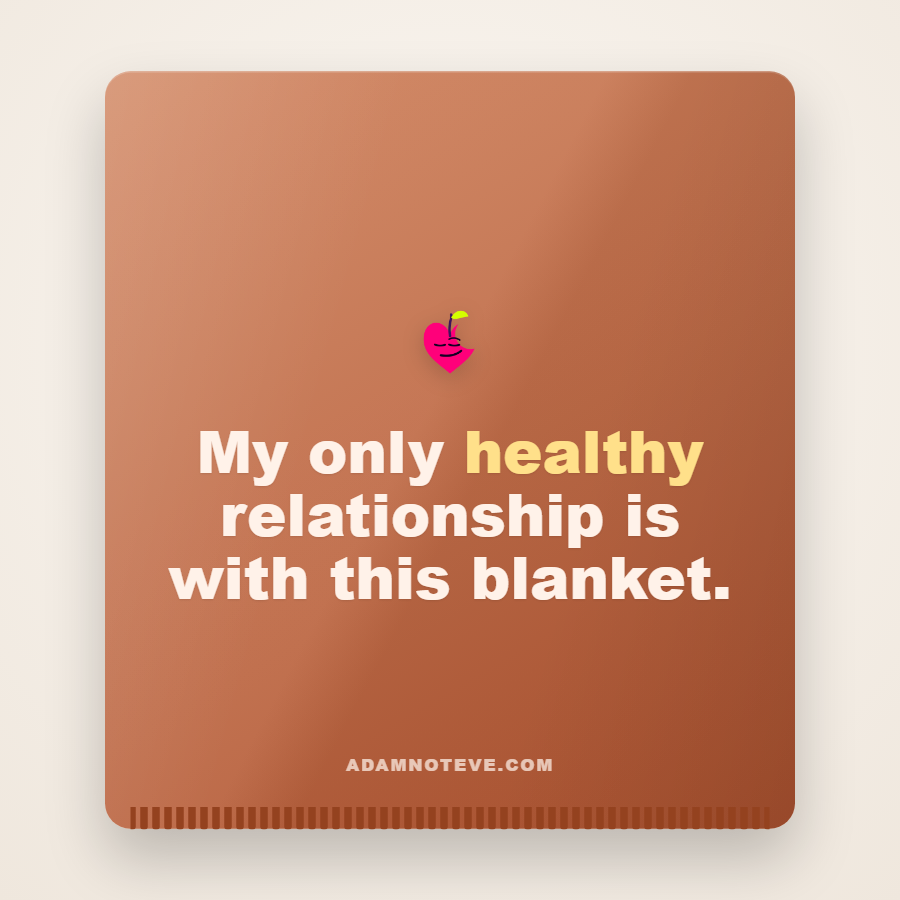
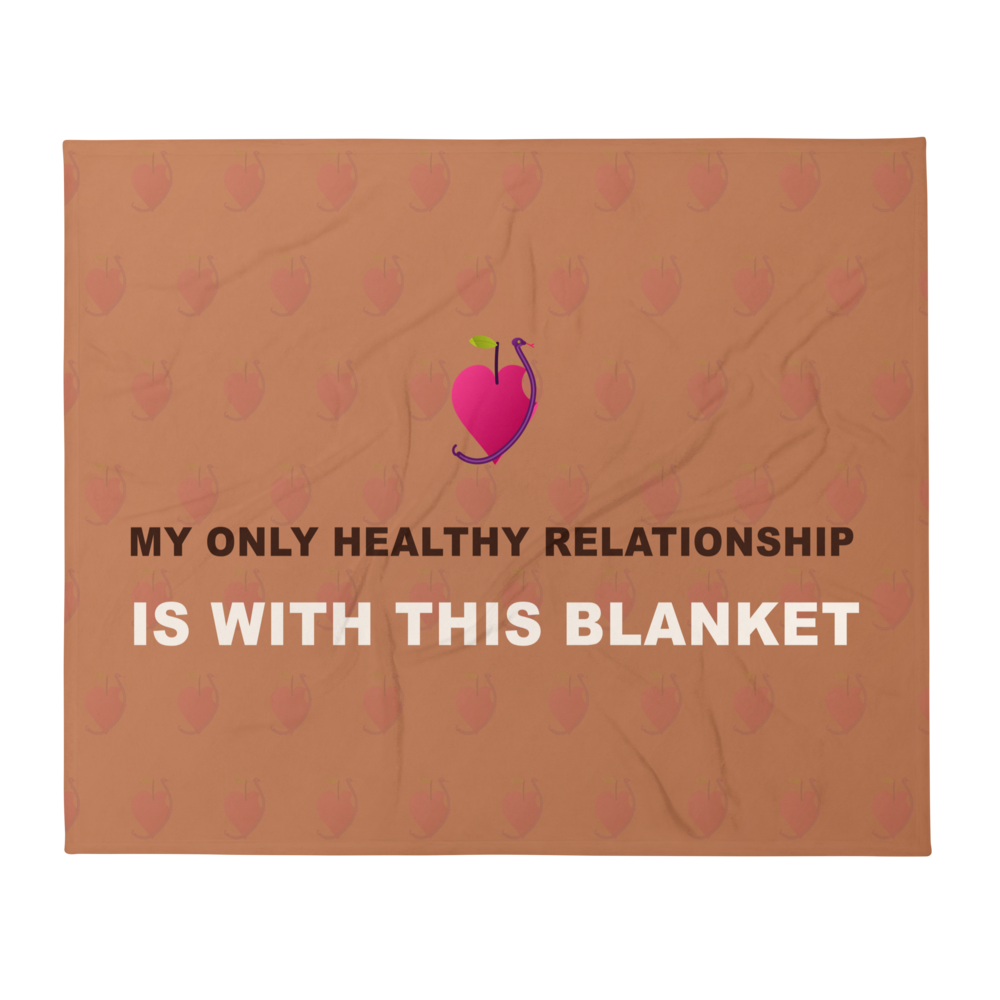
Build the two missing blanket products; fix all three blanket designs
p51 and p85 had no Printful product at all, so they could never leave
Coming Soon. Both now created on catalog 395 with all three sizes at
$44/$52/$69, mapped, and set live.

Also fixes p50, which I set live earlier without checking its print file:
the artwork was the retired "Petty Since the Garden" slogan on the flat
cartoon apple, and purple despite the listing describing it as sage. All
three print files rebuilt on the snake+heart mark in the colours the
listings actually claim -- sage, dusty rose, terracotta -- with a faint
tiled watermark of the mark and per-blanket slogans.

Mockups are now real Printful renders rather than the HTML-to-PNG mocks
the old generator produced (that generator still references the retired
mascot-eve.png and should not be reused as-is).

75 live products; no product remains in Coming Soon.

diff --git a/lib/printful-mapping.js b/lib/printful-mapping.js
@@ -1137,6 +1137,16 @@ MAPPING['p83||Unscented'] = { sync_variant_id: 5400771134 };
 // p84 = New Chapter Card (5x7 greeting, sync 447449363) — bundle hero component. $8.
 MAPPING['p84||Default'] = { sync_variant_id: 5400776293 };
 
+// --- Throw blankets p51 / p85, created 2026-07-31 (catalog 395) ------------
+// p51 No Exes Allowed (sync 453386733)
+MAPPING['p51|30"x40"|'] = { sync_variant_id: 5421333044 };
+MAPPING['p51|50"x60"|'] = { sync_variant_id: 5421333045 };
+MAPPING['p51|60"x80"|'] = { sync_variant_id: 5421333046 };
+// p85 Only Healthy Relationship (sync 453386738)
+MAPPING['p85|30"x40"|'] = { sync_variant_id: 5421333051 };
+MAPPING['p85|50"x60"|'] = { sync_variant_id: 5421333052 };
+MAPPING['p85|60"x80"|'] = { sync_variant_id: 5421333053 };
+
 // --- Recovery-led additions, created 2026-07-31 ---------------------------
 // p86 The Hardest Part Card (greeting card, catalog 568, sync 453362121)
 MAPPING['p86|4x6|Default'] = { sync_variant_id: 5421167360 };

diff --git a/lib/products.js b/lib/products.js
@@ -1424,7 +1424,8 @@
     {
       id: 'p51',
       name: 'No Exes Allowed Throw Blanket',
-      live: false,
+      // Live 2026-07-31: Printful product built (sync 453386733), all 3 sizes mapped.
+      live: true,
       price: 44,
       priceBySize: { '30"x40"': 44, '50"x60"': 52, '60"x80"': 69 },
       category: 'home',
@@ -1443,7 +1444,8 @@
     {
       id: 'p85',
       name: 'Only Healthy Relationship Throw Blanket',
-      live: false,
+      // Live 2026-07-31: Printful product built (sync 453386738), all 3 sizes mapped.
+      live: true,
       price: 44,
       priceBySize: { '30"x40"': 44, '50"x60"': 52, '60"x80"': 69 },
       category: 'home',
